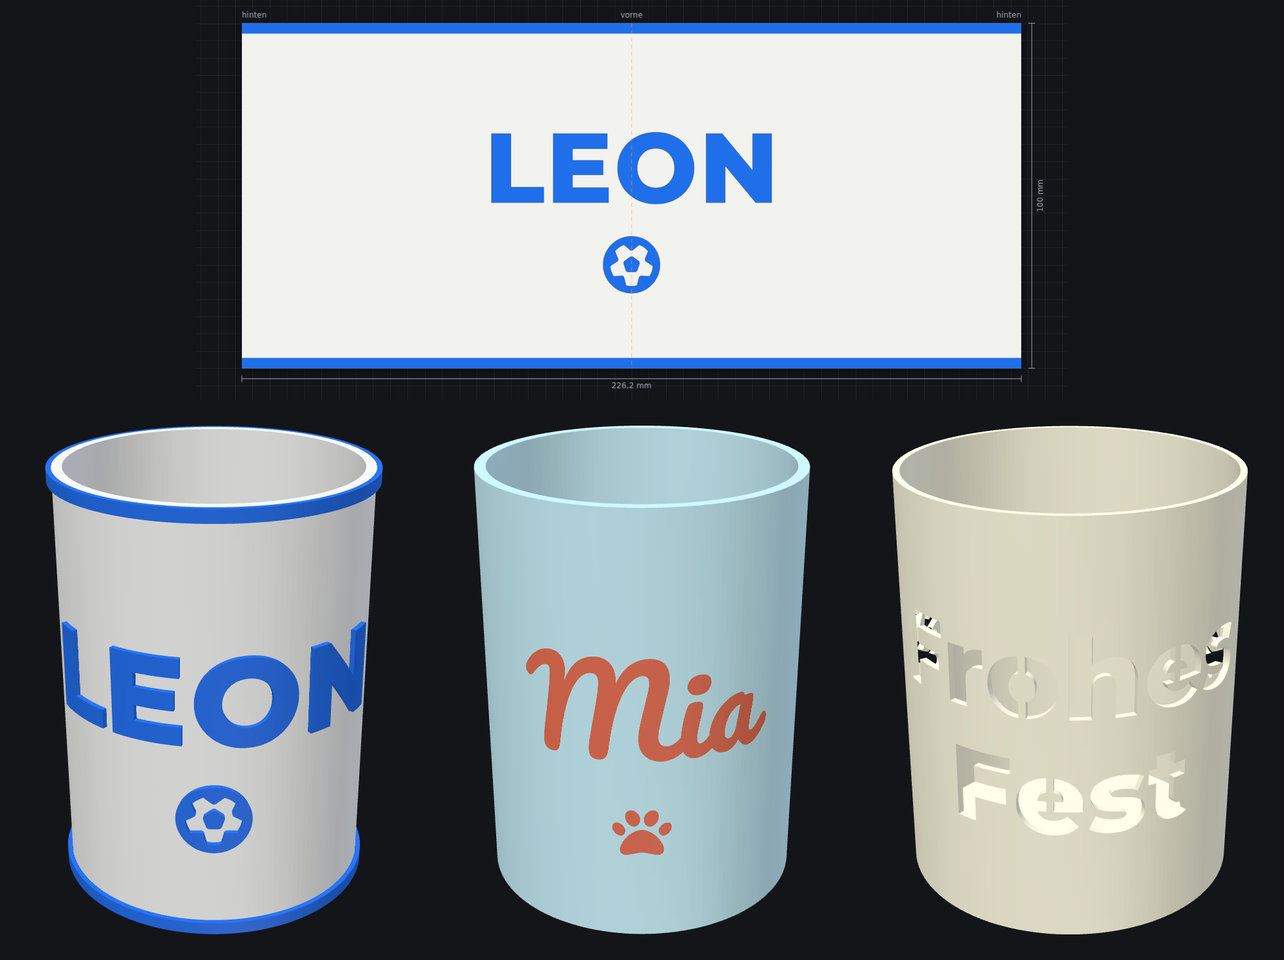
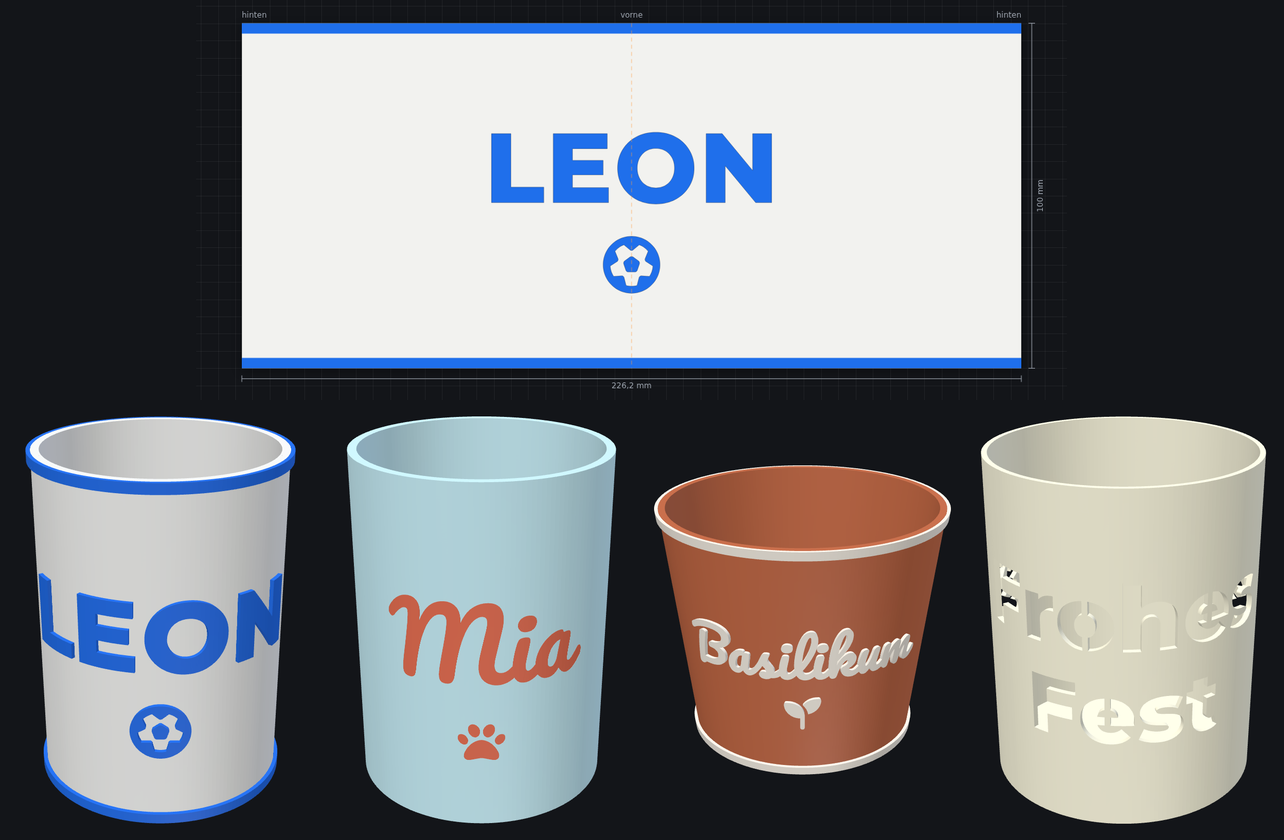
Text-Generator, Phase 3d: konische Becher (Übertopf, Lampenschirm)
- Becher → Wand „Gerade“ oder „Konisch“ mit Ø unten und Ø oben; oben
  weiter wie ein Übertopf oder enger wie ein Lampenschirm.
- Entwurf weiter als Rechteck: so breit wie der Umfang auf halber Höhe,
  so hoch wie die Wand entlang der Schräge. In 3D wird die Wand auf den
  Kegelstumpf gebogen, Rand und Fuß bleiben waagerecht, die Wandstärke
  bleibt; der Boden folgt der Schräge (bei Bedarf in Scheiben).
- Volumen mit dem Flächenmoment (die Wand wird nach oben weiter oder
  enger); Hinweis ab 35° Schräge.
- SVG und DXF enthalten beim konischen Becher den genauen Zuschnitt als
  Kreisring-Ausschnitt (Vorlage für Folie oder Papier).
- 2D-Ansicht nennt Ø oben und unten, Statuszeile „Becher Ø 80–100 × 85“.
- Vorlage „Übertopf“ (Basilikum); Tests für weite, enge und steile Wände
  und den Zuschnitt; Export-Prüfung mit einem konischen Windlicht.

Claude-Session: https://claude.ai/code/session_014Zrj3MJcurLo4KuRVB8Mg5

diff --git a/Text-Generator/js/core/model.js b/Text-Generator/js/core/model.js
@@ -5,7 +5,7 @@
 // the 3MF file so Bambu Studio can print them in different colours (AMS).
 
 import {
-  union, difference, intersection, offset, fillHoles, regionBounds, regionArea, emptyBounds, addRingBounds,
+  union, difference, intersection, offset, fillHoles, regionBounds, regionArea, regionMomentY, emptyBounds, addRingBounds,
   circleRing, ellipseRing, roundedRectRing, crossingsAtY, crossingsAtX, thinParts, transformRegion, insideRegion,
 } from './geometry.js';
 import { layoutBlock } from './layout.js';
@@ -14,6 +14,7 @@ import { qrBlock, graphicBlock, hasQrLogo } from './blocks.js';
 import { bridgeIslands } from './stencil.js';
 import { splitStencil } from './split.js';
 import { stampHandle, handleVolume } from './stamp.js';
+import { cupShape } from './cup.js';
 
 export const PART_NAMES = { base: 'Platte', text: 'Schrift', border: 'Rand', outline: 'Kontur', back: 'Rückseite', piece: 'Teil', handle: 'Griff', floor: 'Boden' };
 export const KIND_NAMES = { text: 'Text', qr: 'QR-Code', graphic: 'Grafik' };
@@ -148,9 +149,9 @@ function basePlate(doc, text, box, warnings, center = null) {
       return union([ellipseRing(cx, cy, (w / 2 + p) * Math.SQRT2, (h / 2 + p) * Math.SQRT2)]);
     }
     case 'cup': {
-      // The wall unrolled: the circumference wide, as high as the cup.
-      const C = Math.PI * doc.cup.diameter;
-      const H = doc.cup.height;
+      // The wall unrolled: the circumference (at half height) wide, as high
+      // as the wall along its surface.
+      const { circumference: C, length: H } = cupShape(doc.cup);
       return union([[-C / 2, -H / 2, C / 2, -H / 2, C / 2, H / 2, -C / 2, H / 2]]);
     }
     case 'circle': {
@@ -832,13 +833,30 @@ export function buildModel(doc, getFace, { keepCurves = false, symbolsLoading = 
   let cupInfo = null;
   if (cup && base.length) {
     const b = regionBounds(base);
-    const R = doc.cup.diameter / 2;
-    const wrap = { seam: [b.minX, b.maxX], radius: R, t, height: b.maxY - b.minY, segments: Math.max(72, Math.min(360, Math.round(doc.cup.diameter * 2.5))) };
+    const shape = cupShape(doc.cup);
+    const { r0, r1, sin, cos } = shape;
+    const segments = Math.max(72, Math.min(360, Math.round(2 * Math.max(r0, r1) * 2.5)));
+    const wrap = { seam: [b.minX, b.maxX], radius: shape.radius, t, height: b.maxY - b.minY, sin, cos, segments };
     for (const part of parts) for (const s of part.solids) s.wrap = wrap;
-    const floor = Math.min(doc.cup.bottom, wrap.height);
-    add('floor', PART_NAMES.floor, doc.colors.base, doc.slots.base, [{ region: union([circleRing(0, 0, R - t / 2)]), z0: 0, z1: floor }]);
-    if (t > R * 0.6) warnings.push('Die Wand ist für diesen Durchmesser zu dick.');
-    cupInfo = { diameter: doc.cup.diameter, height: wrap.height, circumference: b.maxX - b.minX, floor, wall: t };
+    // The floor reaches halfway into the wall; on a sloped wall in slices
+    // that follow it.
+    const floor = Math.min(doc.cup.bottom, shape.height);
+    const tan = sin / cos;
+    const slices = Math.max(1, Math.ceil((floor * Math.abs(sin)) / (t / 2)));
+    const discs = [];
+    for (let i = 0; i < slices; i++) {
+      const z0 = (floor * i) / slices;
+      const z1 = (floor * (i + 1)) / slices;
+      discs.push({ region: union([circleRing(0, 0, r0 + ((z0 + z1) / 2) * tan - t / (2 * cos))]), z0, z1 });
+    }
+    add('floor', PART_NAMES.floor, doc.colors.base, doc.slots.base, discs);
+    if (t > Math.min(r0, r1) * 0.6) warnings.push('Die Wand ist für diesen Durchmesser zu dick.');
+    const degrees = Math.abs((shape.slope * 180) / Math.PI);
+    if (degrees > 35) warnings.push(`Die Wand ist ${Math.round(degrees)}° schräg – ohne Stützen druckt man meist bis etwa 40°.`);
+    cupInfo = {
+      diameter: doc.cup.diameter, top: 2 * r1, conical: r0 !== r1, height: shape.height, length: shape.length,
+      circumference: b.maxX - b.minX, floor, wall: t, slope: degrees, shape,
+    };
   }
 
   // Checks.
@@ -853,7 +871,7 @@ export function buildModel(doc, getFace, { keepCurves = false, symbolsLoading = 
   const bed = doc.check.bed;
   // A cup stands on the bed: its outer diameter (lettering included) and height count.
   const flatTop = parts.filter((p) => p.object !== 'handle' && p.id !== 'floor').reduce((z, part) => Math.max(z, ...part.solids.map((s) => s.z1)), 0);
-  const cupRadius = cupInfo ? cupInfo.diameter / 2 - t + flatTop : 0;
+  const cupRadius = cupInfo ? Math.max(cupInfo.shape.r0, cupInfo.shape.r1) + (flatTop - t) / cupInfo.shape.cos : 0;
   const size = cupInfo ? [2 * cupRadius, cupInfo.height] : [bounds.maxX - bounds.minX, bounds.maxY - bounds.minY];
   if (!split && Number.isFinite(bounds.minX) && Math.max(...size) > bed - 4) {
     warnings.push(`Größer als das Druckbett (${bed} × ${bed} mm)${relief === 'cut' && !cupInfo ? ' – „In Teile aufteilen“ einschalten.' : '.'}`);
@@ -938,22 +956,25 @@ export function buildModel(doc, getFace, { keepCurves = false, symbolsLoading = 
 export function solidVolume(s) {
   if (s.kind === 'handle') return handleVolume(s);
   // Bent around a cup, a slab grows with its distance from the axis: the
-  // flat size holds at the outside (radius), in between it scales.
+  // flat size holds on the outside at half height (radius); further in it
+  // shrinks, on a cone it also grows with the height (y) up the wall.
   const w = s.wrap;
-  const f = w ? (za, zb) => (w.radius - w.t + (za + zb) / 2) / w.radius : () => 1;
+  const slab = w
+    ? (region, za, zb) => ((zb - za) * (regionArea(region) * (w.radius + ((za + zb) / 2 - w.t) / (w.cos ?? 1)) + (w.sin ?? 0) * regionMomentY(region))) / w.radius
+    : (region, za, zb) => regionArea(region) * (zb - za);
   // Slabs: the region up to the first step, each step up to the next.
   const steps = s.steps || (s.step ? [s.step] : []);
   let v = 0;
   let region = s.region;
   let z = s.z0;
   for (const st of steps) {
-    v += regionArea(region) * (st.z - z) * f(z, st.z);
+    v += slab(region, z, st.z);
     region = st.region;
     z = st.z;
   }
-  v += regionArea(region) * (s.z1 - z) * f(z, s.z1);
-  if (s.pockets) v -= regionArea(s.pockets) * s.depth * f(s.z1 - s.depth, s.z1);
-  for (const b of s.bottom || []) if (b.region.length && b.depth > 0) v -= regionArea(b.region) * b.depth * f(s.z0, s.z0 + b.depth);
+  v += slab(region, z, s.z1);
+  if (s.pockets) v -= slab(s.pockets, s.z1 - s.depth, s.z1);
+  for (const b of s.bottom || []) if (b.region.length && b.depth > 0) v -= slab(b.region, s.z0, s.z0 + b.depth);
   for (const c of s.countersinks || []) {
     // Polygonal cylinder and cone with the same corner count as the mesh.
     const n = countersinkSegments(c.R);

diff --git a/Text-Generator/js/core/cup.js b/Text-Generator/js/core/cup.js
@@ -1,0 +1,79 @@
+// Cups and pen holders. The wall is designed flat – as wide as the
+// circumference at half height, as high as the wall measured along its
+// surface – and bent around the Z axis for 3D. A conical cup (flower pot)
+// widens or narrows upwards; the design then stretches a little towards the
+// wide end, the flat pattern for paper or foil is a ring sector.
+
+import { regionBounds } from './geometry.js';
+
+/**
+ * Shape of the wall (mm, outside radii): r0 at the bottom, r1 at the top,
+ * radius at half height, slope of the wall against the vertical (sin, cos).
+ */
+export function cupShape(cup) {
+  const r0 = cup.diameter / 2;
+  const r1 = (cup.conical ? cup.top : cup.diameter) / 2;
+  const height = cup.height;
+  const slope = Math.atan2(r1 - r0, height);
+  const cos = Math.cos(slope);
+  const radius = (r0 + r1) / 2;
+  return { r0, r1, height, length: height / cos, radius, circumference: 2 * Math.PI * radius, slope, sin: Math.sin(slope), cos };
+}
+
+/**
+ * Point of the design (u along the middle line, v up the wall, 0 in the
+ * middle) in the flat pattern of the wall: a cone unrolls to a ring sector
+ * around its apex, a cylinder stays a rectangle. Lengths along the middle
+ * line and up the wall are kept, just like on the cup.
+ */
+export function developer(shape) {
+  const k = shape.sin / shape.radius; // curvature of the middle line
+  if (Math.abs(k) < 1e-9) return null;
+  return (u, v) => {
+    const rho = 1 / k + v;
+    const phi = u * k;
+    return [rho * Math.sin(phi), rho * Math.cos(phi) - 1 / k];
+  };
+}
+
+/** A region in the flat pattern; long edges become arcs (steps of `step` mm). */
+export function developRegion(region, shape, step = 1) {
+  const f = developer(shape);
+  if (!f) return region;
+  const ring = (r) => {
+    const out = [];
+    const n = r.length;
+    for (let i = 0; i < n; i += 2) {
+      const x0 = r[i];
+      const y0 = r[i + 1];
+      const x1 = r[(i + 2) % n];
+      const y1 = r[(i + 3) % n];
+      const pieces = Math.max(1, Math.ceil(Math.hypot(x1 - x0, y1 - y0) / step));
+      for (let j = 0; j < pieces; j++) out.push(...f(x0 + ((x1 - x0) * j) / pieces, y0 + ((y1 - y0) * j) / pieces));
+    }
+    return out;
+  };
+  return region.map((s) => ({ outer: ring(s.outer), holes: s.holes.map(ring) }));
+}
+
+/**
+ * The model with all flat regions in the pattern of a conical wall (for SVG
+ * and DXF); anything else is returned as it is.
+ */
+export function developedModel(model) {
+  if (model.developed || !model.cup || !developer(model.cup.shape)) return model;
+  const d = (region) => developRegion(region, model.cup.shape);
+  const out = {
+    ...model,
+    developed: true,
+    base: d(model.base),
+    plate: d(model.plate),
+    text: d(model.text),
+    border: d(model.border),
+    outline: d(model.outline),
+    backText: d(model.backText),
+    textGroups: model.textGroups.map((g) => ({ ...g, region: d(g.region) })),
+  };
+  out.bounds = regionBounds([...out.plate, ...out.base, ...out.border, ...out.outline, ...out.text]);
+  return out;
+}

diff --git a/Text-Generator/js/ui/panels.js b/Text-Generator/js/ui/panels.js
@@ -429,10 +429,28 @@ export function buildRightPanel(root, app) {
       ],
     }),
     note(panel, () => SHAPE_NOTES[shape()]),
+    segmented(panel, {
+      label: 'Wand',
+      bind: bindPath(app, 'cup.conical'),
+      options: [[false, 'Gerade'], [true, 'Konisch']],
+      visible: cup,
+      onChange: (on) => {
+        // Konisch: wider at the top, like a flower pot (narrower on request).
+        const c = doc().cup;
+        if (on && c.top <= c.diameter) {
+          c.top = Math.round(c.diameter * 1.2);
+          app.changed();
+          app.amend();
+        }
+      },
+    }),
+    note(panel, 'Konisch, z. B. ein Übertopf: Die Vorschau zeigt die Wand als Rechteck mit dem Umfang auf halber Höhe, die Höhe entlang der Wand gemessen. Zum weiten Ende hin wird die Schrift auf dem Becher etwas breiter; SVG und DXF enthalten den genauen Zuschnitt der Wand.', () => cup() && doc().cup.conical),
     segmented(panel, { label: 'Größe', bind: bindPath(app, 'base.sizeMode'), options: [['auto', 'Um die Schrift'], ['fixed', 'Feste Maße']], visible: sizable }),
     grid(
       numberField(panel, { label: 'Randabstand', title: 'Abstand zwischen Schrift und Plattenrand', unit: 'mm', bind: bindPath(app, 'base.padding'), min: 0, max: 100, step: 0.2, digits: 2, slider: [0, 10], visible: () => hasBase() && !fixed() && !cup() }),
-      numberField(panel, { label: 'Durchmesser', title: 'Außen, ohne erhabene Schrift', unit: 'mm', bind: bindPath(app, 'cup.diameter'), min: 10, max: 500, step: 1, digits: 1, slider: [30, 150], visible: cup }),
+      numberField(panel, { label: 'Durchmesser', title: 'Außen, ohne erhabene Schrift', unit: 'mm', bind: bindPath(app, 'cup.diameter'), min: 10, max: 500, step: 1, digits: 1, slider: [30, 150], visible: () => cup() && !doc().cup.conical }),
+      numberField(panel, { label: 'Ø unten', title: 'Außendurchmesser am Boden, ohne erhabene Schrift', unit: 'mm', bind: bindPath(app, 'cup.diameter'), min: 10, max: 500, step: 1, digits: 1, slider: [30, 150], visible: () => cup() && doc().cup.conical }),
+      numberField(panel, { label: 'Ø oben', title: 'Außendurchmesser am Rand, ohne erhabene Schrift', unit: 'mm', bind: bindPath(app, 'cup.top'), min: 10, max: 500, step: 1, digits: 1, slider: [30, 150], visible: () => cup() && doc().cup.conical }),
       numberField(panel, { label: 'Höhe', unit: 'mm', bind: bindPath(app, 'cup.height'), min: 5, max: 500, step: 1, digits: 1, slider: [20, 200], visible: cup }),
       numberField(panel, { label: 'Boden', title: 'Dicke des Bodens', unit: 'mm', bind: bindPath(app, 'cup.bottom'), min: 0.4, max: 20, step: 0.2, digits: 2, slider: [1, 6], visible: cup }),
       numberField(panel, { label: 'Breite', unit: 'mm', bind: bindPath(app, 'base.width'), min: 1, max: 2000, step: 1, digits: 1, visible: () => fixed() && shape() !== 'circle' }),

diff --git a/Text-Generator/js/ui/export-dialog.js b/Text-Generator/js/ui/export-dialog.js
@@ -38,7 +38,7 @@ const INFO = {
   stl: (m) => (m.stamp?.handle ? `${STAMP} In der STL liegen beide nebeneinander – im Slicer <i>In Objekte teilen</i>.` : m.pieces.length
     ? `${PIECES(m)} Alle Teile liegen auseinandergezogen in einer Datei – im Slicer <i>In Objekte teilen</i> und anordnen. Mit <b>3MF</b> sind es gleich getrennte Objekte.`
     : 'Alle Teile in einer Datei – der Slicer vereint sie zu einem Körper. Für mehrfarbigen Druck lieber <b>3MF</b> nehmen.'),
-  svg: (m) => (m.cup ? 'Die abgewickelte Wand des Bechers im Maßstab 1:1 (Umfang × Höhe) – zum Beispiel als Vorlage für Folie oder Papier.' : `Draufsicht im Maßstab 1:1 (1 SVG-Einheit = 1 mm). <b>Farbig</b> für Doku, <b>Umrisse</b> für Laser, Plotter oder Fusion 360 (<i>Einfügen → SVG einfügen</i>)${m.relief === 'cut' ? ' – bei der Schablone alle Schnittlinien mit Stegen' : ''}.`),
+  svg: (m) => (m.cup ? `Die abgewickelte Wand des Bechers im Maßstab 1:1${m.cup.conical ? ' – beim konischen Becher ein Kreisring-Ausschnitt, der genau um die Wand passt' : ' (Umfang × Höhe)'}, zum Beispiel als Vorlage für Folie oder Papier.` : `Draufsicht im Maßstab 1:1 (1 SVG-Einheit = 1 mm). <b>Farbig</b> für Doku, <b>Umrisse</b> für Laser, Plotter oder Fusion 360 (<i>Einfügen → SVG einfügen</i>)${m.relief === 'cut' ? ' – bei der Schablone alle Schnittlinien mit Stegen' : ''}.`),
   dxf: (m) => (m.relief === 'cut'
     ? `Alle Schnittlinien der Schablone – Außenkante und Buchstaben mit Stegen – als geschlossene Linienzüge auf der Ebene <b>SCHNITT</b>, 1:1 in mm${m.pieces.length ? ', am Stück (Laser und Plotter schneiden auch große Formate)' : ''}. Für Laser (z. B. LightBurn), Schneideplotter mit Schablonenfolie (z. B. Silhouette Studio, auch in der kostenlosen Version) oder Fusion 360 (<i>Einfügen → DXF einfügen</i>).`
     : `Umrisse als geschlossene Linienzüge, 1:1 in mm, je Teil eine Ebene (${dxfLayers(m).map(([n]) => `<b>${n}</b>`).join(', ') || '–'}). Für Fusion 360 (<i>Einfügen → DXF einfügen</i>), Laser oder Plotter.`),

diff --git a/Text-Generator/js/export/mesh.js b/Text-Generator/js/export/mesh.js
@@ -240,21 +240,24 @@ function addHandle(buf, h) {
  * A solid of a cup: built flat (x along the circumference, y up the wall,
  * z out of it), cut into narrow strips and bent around the Z axis. x = 0
  * faces the front (-y), the plate top (z = t) is the outside at the given
- * radius; the seam lines at the back meet exactly.
- *   wrap: { seam: [x0, x1], radius, t, height, segments }
+ * radius (at half height); the seam lines at the back meet exactly. A
+ * conical wall (slope sin, cos against the vertical) leans outwards or
+ * inwards; y runs along its surface, z sideways, so the rim and the foot
+ * stay level and the wall keeps its thickness.
+ *   wrap: { seam: [x0, x1], radius, t, height, sin, cos, segments }
  */
 function addWrapped(out, solid) {
   // Full precision: the seam points must stay exactly on the seam lines.
   const flat = new TriangleBuffer(4096, Float64Array);
   addSolid(flat, solid);
-  const { seam: [x0, x1], radius: R, t, height: H, segments: n } = solid.wrap;
+  const { seam: [x0, x1], radius: R, t, height: H, sin = 0, cos = 1, segments: n } = solid.wrap;
   const C = x1 - x0;
   const planes = [];
   for (let k = 0; k <= n; k++) planes.push(k === n ? x1 : x0 + (k * C) / n);
   const bend = (p) => {
     const a = p[0] >= x1 ? -Math.PI : (2 * Math.PI * (p[0] - x0)) / C - Math.PI;
-    const rho = R - t + p[2];
-    return [rho * Math.sin(a), -rho * Math.cos(a), p[1] + H / 2];
+    const rho = R + p[1] * sin + (p[2] - t) / cos;
+    return [rho * Math.sin(a), -rho * Math.cos(a), (p[1] + H / 2) * cos];
   };
   sliceStrips(flat.positions, flat.count, planes, (poly) => {
     const q = poly.map(bend);

diff --git a/Text-Generator/js/ui/renderer.js b/Text-Generator/js/ui/renderer.js
@@ -92,9 +92,10 @@ export class Renderer {
     const W = Math.max(b.maxX - b.minX, 10);
     const H = Math.max(b.maxY - b.minY, 10);
     const availH = Math.max(this.height * 0.5, this.height - (this.insetBottom || 0));
-    // Room for the dimension labels.
+    // Room for the dimension labels (a conical cup: its diameters beside it).
     const pad = Math.min(70, Math.min(this.width, availH) * 0.12);
-    this.scale = Math.max(0.05, Math.min((this.width - 2 * pad) / W, (availH - 2 * pad) / H));
+    const padX = pad + (m?.cup?.conical ? 40 : 0);
+    this.scale = Math.max(0.05, Math.min((this.width - 2 * padX) / W, (availH - 2 * pad) / H));
     const cx = (b.minX + b.maxX) / 2;
     const cy = (b.minY + b.maxY) / 2;
     this.ox = this.width / 2 - cx * this.scale;
@@ -333,6 +334,14 @@ export class Renderer {
     ctx.fillText('hinten', xl, yt - 6);
     ctx.textAlign = 'right';
     ctx.fillText('hinten', xr, yt - 6);
+    // A conical wall: its diameters at the rim and at the foot.
+    if (m.cup.conical) {
+      const d = (v) => v.toLocaleString('de-DE', { maximumFractionDigits: 1 });
+      ctx.textBaseline = 'top';
+      ctx.fillText(`oben Ø ${d(m.cup.top)}`, xl - 8, yt);
+      ctx.textBaseline = 'bottom';
+      ctx.fillText(`unten Ø ${d(m.cup.diameter)}`, xl - 8, yb);
+    }
     ctx.restore();
   }
 

diff --git a/Text-Generator/js/ui/help.js b/Text-Generator/js/ui/help.js
@@ -46,6 +46,7 @@ const HTML = `
     <h3>Becher und Stifthalter</h3>
     <ul>
       <li><b>Grundform → Becher</b>: Durchmesser, Höhe und Boden eingeben. Die Vorschau zeigt die Wand <b>abgewickelt</b>: die Mitte ist vorne, links und rechts treffen sich hinten an der Naht (dort bleiben 1,5 mm frei). Schiebst du einen Text nach links oder rechts, wandert er um den Becher herum.</li>
+      <li><b>Wand → Konisch</b>: Ø unten und Ø oben, z. B. für einen Übertopf. Die Vorschau bleibt ein Rechteck (Umfang auf halber Höhe); zum weiten Ende hin wird die Schrift auf dem Becher etwas breiter. SVG und DXF enthalten den genauen Zuschnitt als Kreisring-Ausschnitt.</li>
       <li>In der 3D-Ansicht steht der fertige Becher. Schrift erhaben, vertieft oder <b>bündig</b> in zweiter Farbe; der <b>Rand</b> wird zu Ringen oben und unten.</li>
       <li>Als <b>Schablone</b> wird ein <b>Windlicht</b> daraus: die Schrift ist aus der Wand geschnitten. Nur ein LED-Teelicht hineinstellen – PLA wird schon bei etwa 60 °C weich.</li>
       <li>Gedruckt wird stehend, ohne Stützen. Wand 2–2,4 mm für Stifthalter, 1,6 mm fürs Windlicht.</li>

diff --git a/Text-Generator/js/core/document.js b/Text-Generator/js/core/document.js
@@ -134,7 +134,8 @@ export const DEFAULTS = {
   stencil: { bridge: 1.2, bridges: 2, direction: 'vertical', split: true, clearance: 0.2, tab: 10 },
   // Cup or pen holder (base shape 'cup'): outer diameter, height and floor
   // in mm; the wall is body.thickness, the lettering runs around it.
-  cup: { diameter: 70, height: 100, bottom: 2.4 },
+  // Conical: diameter at the bottom, top at the top (a flower pot).
+  cup: { diameter: 70, height: 100, bottom: 2.4, conical: false, top: 85 },
   // Stamp: lettering mirrored, sloped flanks (draft, degrees) on raised
   // lettering, a handle with a peg for the socket in the back (clearance
   // per side, mm).
@@ -317,6 +318,8 @@ export function normalizeDoc(input) {
   out.cup.diameter = clamp(out.cup.diameter, 10, 500);
   out.cup.height = clamp(out.cup.height, 5, 500);
   out.cup.bottom = clamp(out.cup.bottom, 0.4, 20);
+  out.cup.conical = out.cup.conical === true;
+  out.cup.top = clamp(out.cup.top, 10, 500);
   out.stamp.enabled = out.stamp.enabled === true;
   out.stamp.kind = oneOf(STAMP_KINDS, out.stamp.kind, 'ink');
   out.stamp.draft = clamp(out.stamp.draft, 0, 30);

diff --git a/Text-Generator/js/export/dxf.js b/Text-Generator/js/export/dxf.js
@@ -5,9 +5,14 @@
 // of the sign has its own layer.
 
 import { dxfFile } from '../../../shared/js/dxf.js';
+import { developedModel } from '../core/cup.js';
 
-/** [layer, ACI colour, region] for the model, only the ones with lines. */
-export function dxfLayers(model) {
+/**
+ * [layer, ACI colour, region] for the model, only the ones with lines. A
+ * conical cup gives the flat pattern of its wall (a ring sector).
+ */
+export function dxfLayers(input) {
+  const model = developedModel(input);
   const layers = model.relief === 'cut'
     ? [['SCHNITT', 1, model.plate]]
     : [
@@ -20,7 +25,8 @@ export function dxfLayers(model) {
   return layers.filter(([, , region]) => region.length);
 }
 
-export function exportDXF(model) {
+export function exportDXF(input) {
+  const model = developedModel(input);
   const b = model.bounds;
   const bounds = Number.isFinite(b.minX) ? [b.minX, b.minY, b.maxX, b.maxY] : [0, 0, 0, 0];
   const layers = dxfLayers(model);

diff --git a/Text-Generator/js/export/svg.js b/Text-Generator/js/export/svg.js
@@ -3,6 +3,9 @@
 // style 'color':   top view in the part colours (documentation, preview)
 // style 'outline': cut lines only (laser, plotter, Fusion "SVG einfügen");
 //                  a stencil gives one path with all its cut lines
+// A cup gives its wall unrolled, a conical one as a ring sector.
+
+import { developedModel } from '../core/cup.js';
 
 const esc = (s) => String(s).replace(/[<>&"]/g, (c) => ({ '<': '&lt;', '>': '&gt;', '&': '&amp;', '"': '&quot;' }[c]));
 
@@ -27,7 +30,8 @@ export function regionPathData(region, X, Y, digits = 3) {
   return d;
 }
 
-export function exportSVG(model, { style = 'color', margin = 2, title = '' } = {}) {
+export function exportSVG(input, { style = 'color', margin = 2, title = '' } = {}) {
+  const model = developedModel(input);
   const b = model.bounds;
   const valid = Number.isFinite(b.minX);
   const x0 = valid ? b.minX - margin : -10;

diff --git a/Text-Generator/js/main.js b/Text-Generator/js/main.js
@@ -166,7 +166,10 @@ async function main() {
     const s = m.stats;
     const parts = [];
     if (app.loading.size) parts.push('<span class="warn">Schrift wird geladen …</span>');
-    if (m.cup) {
+    if (m.cup?.conical) {
+      parts.push(`<span title="Außendurchmesser unten – oben (ohne Schrift) × Höhe">Becher <b>Ø ${de(m.cup.diameter)}–${de(m.cup.top)} × ${de(s.top)} mm</b></span>`);
+      parts.push(`<span title="Die Vorschau zeigt die Wand abgewickelt: so breit wie der Umfang auf halber Höhe">Umfang Mitte <b>${de(m.cup.circumference)} mm</b></span>`);
+    } else if (m.cup) {
       parts.push(`<span title="Außendurchmesser mit Schrift × Höhe">Becher <b>Ø ${de(s.width)} × ${de(s.top)} mm</b></span>`);
       parts.push(`<span title="Die Vorschau zeigt die Wand abgewickelt">Umfang <b>${de(m.cup.circumference)} mm</b></span>`);
     } else {

diff --git a/Text-Generator/js/core/presets.js b/Text-Generator/js/core/presets.js
@@ -237,6 +237,18 @@ export const BUILTIN_PRESETS = [
     colors: { base: '#fefae0', text: '#bc6c25', border: '#bc6c25' },
   },
   {
+    name: 'Übertopf',
+    texts: [
+      { text: 'Basilikum', font: PACIFICO, size: 16, bold: 0.2, y: 5 },
+      { text: '🌱', font: MONTSERRAT, size: 12, y: -17 },
+    ],
+    base: { shape: 'cup' },
+    mount: { type: 'none' },
+    cup: { diameter: 80, height: 85, bottom: 2.4, conical: true, top: 100 },
+    body: { relief: 'raised', thickness: 2.4, height: 1.2, border: true, borderWidth: 3, borderHeight: 1.2 },
+    colors: { base: '#c46a45', text: '#f6efe3', border: '#f6efe3' },
+  },
+  {
     name: 'Sprühschablone',
     texts: [{ text: 'KEINE\nWERBUNG', font: MONTSERRAT, size: 14, lineSpacing: 1.3, letterSpacing: 0.15 }],
     base: { shape: 'rect', padding: 12, radius: 3 },
